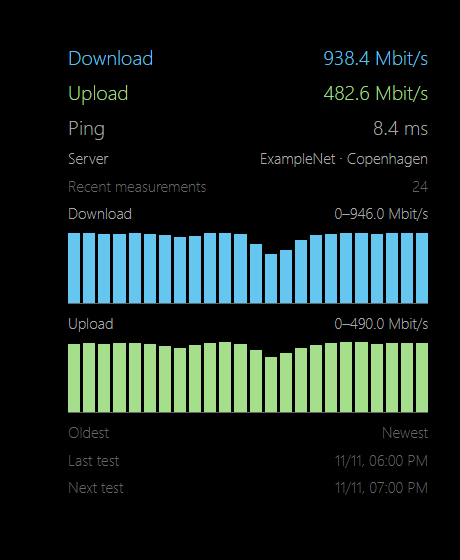
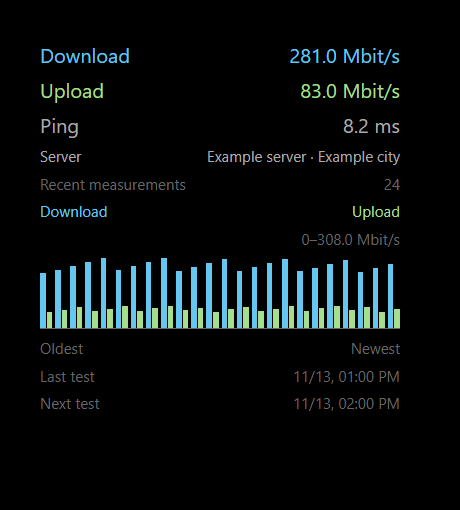
Combine speed history charts into a compact shared graph

Changed region(s): [[0.0609, 0.0882, 0.9435, 0.8824]]

diff --git a/MMM-Speedtest-BODK.js b/MMM-Speedtest-BODK.js
@@ -40,19 +40,26 @@ Module.register("MMM-Speedtest-BODK", {
     if (this.config.showServer) add(this.t("server"), [last.server.name, last.server.location].filter(Boolean).join(" · "), "small");
     if (this.config.showGraph) {
       add(this.t("history"), String(history.length), "small dimmed");
-      for (const key of ["download", "upload"]) {
-        const max = Math.max(1, ...history.map(item => item[key]));
-        add(this.t(key), `0–${this.number(max)} Mbit/s`, "small");
-        const chart = document.createElement("div"); chart.className = `speedtest-chart speedtest-${key}`;
-        chart.setAttribute("role", "img"); chart.setAttribute("aria-label", `${this.t(key)}: ${history.map(item => this.number(item[key])).join(", ")} Mbit/s`);
-        for (const item of history) {
-          const slot = document.createElement("div"); slot.className = "speedtest-slot";
+      const keys = ["download", "upload"];
+      const max = Math.max(1, ...history.flatMap(item => keys.map(key => item[key])));
+      const legend = add(this.t("download"), this.t("upload"), "small");
+      legend.children[0].className = "speedtest-download";
+      legend.children[1].className = "speedtest-upload";
+      add("", `0–${this.number(max)} Mbit/s`, "small dimmed");
+      const chart = document.createElement("div"); chart.className = "speedtest-chart";
+      chart.setAttribute("role", "img");
+      chart.setAttribute("aria-label", keys.map(key => `${this.t(key)}: ${history.map(item => this.number(item[key])).join(", ")} Mbit/s`).join("; "));
+      for (const item of history) {
+        const slot = document.createElement("div"); slot.className = "speedtest-slot";
+        slot.title = `${this.date(item.timestamp)} · ${keys.map(key => `${this.t(key)}: ${this.number(item[key])} Mbit/s`).join(" · ")} · ${item.server.name}`;
+        for (const key of keys) {
           const bar = document.createElement("div"); bar.className = "speedtest-bar"; bar.style.height = `${item[key] / max * 100}%`;
-          slot.title = `${this.date(item.timestamp)} · ${this.number(item[key])} Mbit/s · ${item.server.name}`;
-          slot.append(bar); chart.append(slot);
+          bar.className += ` speedtest-${key}`;
+          slot.append(bar);
         }
-        root.append(chart);
+        chart.append(slot);
       }
+      root.append(chart);
       add(this.t("oldest"), this.t("newest"), "small dimmed");
     }
     if (this.config.showLastUpdate) add(this.t("updated"), this.date(last.timestamp), "small dimmed");

diff --git a/test/speedtest.test.js b/test/speedtest.test.js
@@ -68,9 +68,26 @@ test("renders numbers/charts independently and filters instance notifications", 
   m.socketNotificationReceived("SPEEDTEST_STATE", { id: "b", status: "ready", history: [] }); assert.equal(m.state.status, "waiting");
   m.state = { status: "ready", history: [parseResult(fixture())] };
   const charts = root => root.children.filter(e => e.className?.startsWith("speedtest-chart"));
-  assert.equal(charts(m.getDom()).length, 2);
+  assert.equal(charts(m.getDom()).length, 1);
   m.config.showGraph = false; assert.equal(charts(m.getDom()).length, 0);
   m.config.showGraph = true; m.config.showValues = false;
-  const root = m.getDom(); assert.equal(charts(root).length, 2);
+  const root = m.getDom(); assert.equal(charts(root).length, 1);
   assert.ok(!root.children.some(e => e.className === "speedtest-row bright speedtest-download"));
+});
+
+test("combines download and upload by measurement on a shared scale", () => {
+  const m = frontend();
+  const first = parseResult(fixture());
+  m.state = { status: "ready", history: [first, { ...first, download: 50, upload: 200 }] };
+  const root = m.getDom(), chart = root.children.find(e => e.className === "speedtest-chart");
+  assert.equal(chart.children.length, 2);
+  assert.deepEqual(chart.children.map(slot => slot.children.map(bar => bar.style.height)), [["50%", "10%"], ["25%", "100%"]]);
+  assert.equal(chart.children[0].children[0].className, "speedtest-bar speedtest-download");
+  assert.equal(chart.children[0].children[1].className, "speedtest-bar speedtest-upload");
+  assert.match(chart.attributes["aria-label"], /Download:.*Upload:/);
+  assert.match(chart.children[0].title, /Download:.*Upload:.*Example server/);
+  m.config.language = "da-DK";
+  assert.match(m.getDom().children.find(e => e.className === "speedtest-chart").children[0].title, /100,0 Mbit\/s/);
+  m.state.history = [{ ...first, download: 0, upload: 0 }];
+  assert.ok(m.getDom().children.find(e => e.className === "speedtest-chart").children[0].children.every(bar => bar.style.height === "0%"));
 });

diff --git a/docs/preview.html b/docs/preview.html
@@ -1,0 +1,32 @@
+<!doctype html>
+<html lang="en">
+<meta charset="utf-8">
+<title>MMM-Speedtest-BODK preview</title>
+<link rel="stylesheet" href="../MMM-Speedtest-BODK.css">
+<style>
+  body { margin: 40px; background: black; color: #aaa; font: 20px/1.5 "Segoe UI", sans-serif; }
+  .small { font-size: 15px; } .dimmed { color: #666; } .bright { color: white; }
+</style>
+<body>
+<script>
+  // Fictional display data only; no backend or external service is started.
+  let definition;
+  const Module = { register(name, value) { definition = value; } };
+</script>
+<script src="../translations.js"></script>
+<script src="../MMM-Speedtest-BODK.js"></script>
+<script>
+  definition.config = { ...definition.defaults };
+  const timestamp = Date.parse("2026-11-13T12:00:00Z");
+  definition.state = {
+    status: "ready", nextRun: timestamp + 3600000,
+    history: Array.from({ length: 24 }, (_, i) => ({
+      download: 240 + (i * 17 % 70), upload: 70 + (i * 11 % 30), ping: 8.2,
+      timestamp: timestamp - (23 - i) * 3600000,
+      server: { name: "Example server", location: "Example city" }
+    }))
+  };
+  document.body.append(definition.getDom());
+</script>
+</body>
+</html>

diff --git a/MMM-Speedtest-BODK.css b/MMM-Speedtest-BODK.css
@@ -4,5 +4,5 @@
 .speedtest-bodk .speedtest-download { color: var(--speedtest-download); }
 .speedtest-bodk .speedtest-upload { color: var(--speedtest-upload); }
 .speedtest-bodk .speedtest-chart { display: flex; gap: 3px; height: 70px; border-bottom: 1px solid #666; margin: 8px 0; }
-.speedtest-bodk .speedtest-slot { flex: 1; min-width: 0; display: flex; align-items: flex-end; height: 100%; }
-.speedtest-bodk .speedtest-bar { width: 100%; background: currentColor; }
+.speedtest-bodk .speedtest-slot { flex: 1; min-width: 0; display: flex; gap: 1px; align-items: flex-end; height: 100%; }
+.speedtest-bodk .speedtest-bar { flex: 1; min-width: 0; background: currentColor; }

diff --git a/README.md b/README.md
@@ -2,7 +2,7 @@
 
 ## Description
 
-A MagicMirror² module displaying download and upload speeds in Mbit/s, ping in milliseconds, and the actual test server name and location. Show numbers, bar charts, or both. The two charts retain the latest 24 successful measurements by default, with the oldest on the left. Each chart has its own automatic scale and a visible maximum. Hover over a bar for its time, speed and server.
+A MagicMirror² module displaying download and upload speeds in Mbit/s, ping in milliseconds, and the actual test server name and location. Show numbers, a combined bar chart, or both. The compact chart retains the latest 24 successful measurements by default, with the oldest on the left. Each measurement pairs a blue download bar with a green upload bar on one automatic scale with a visible maximum. Hover over a pair for its time, both speeds and server. Upload bars can appear small when download speeds are much higher.
 
 Measurements run on the device hosting the MagicMirror² server, not on a remote browser. Tests start on configuration/resume and repeat after the configured interval following completion. Multiple instances are serialized to prevent simultaneous bandwidth tests. History is in memory and resets on restart, suspension/resume or reconfiguration. Failed tests preserve previous results and retry at the normal interval.
 
@@ -10,9 +10,9 @@ Not yet validated on a Raspberry Pi.
 
 ### Preview
 
-Default settings after 24 successful measurements, using fictional example data. Blue bars show download speed and green bars show upload speed, with the oldest measurement on the left. Each chart has its own scale. English is the default language.
+The [browser preview](docs/preview.html) shows the compact combined chart after 24 successful measurements using fictional data. Blue bars show download speed and green bars show upload speed on a shared scale, with the oldest measurement on the left. English is the default language. Open the file locally; no backend or speed test is started.
 
-![Default module display with download, upload, ping, test server and bar charts for 24 fictional measurements](docs/images/default-24-measurements.png)
+![Default module display with one combined download and upload chart for 24 fictional measurements](docs/images/default-24-measurements.png)
 
 ## Requirements
 
@@ -60,7 +60,7 @@ Add to the `modules` array in `~/MagicMirror/config/config.js`:
 | `updateInterval` | `3600000` | Delay in milliseconds after each test; integer 60000–2147483647 |
 | `historyLength` | `24` | Number of successful results to retain; integer 1–168 |
 | `showValues` | `true` | Download and upload numbers |
-| `showGraph` | `true` | Separate download and upload history bar charts |
+| `showGraph` | `true` | Combined download and upload history bar chart |
 | `showPing` | `true` | Latest ping |
 | `showServer` | `true` | Actual server name and location |
 | `showLastUpdate` | `true` | Latest successful measurement time |
